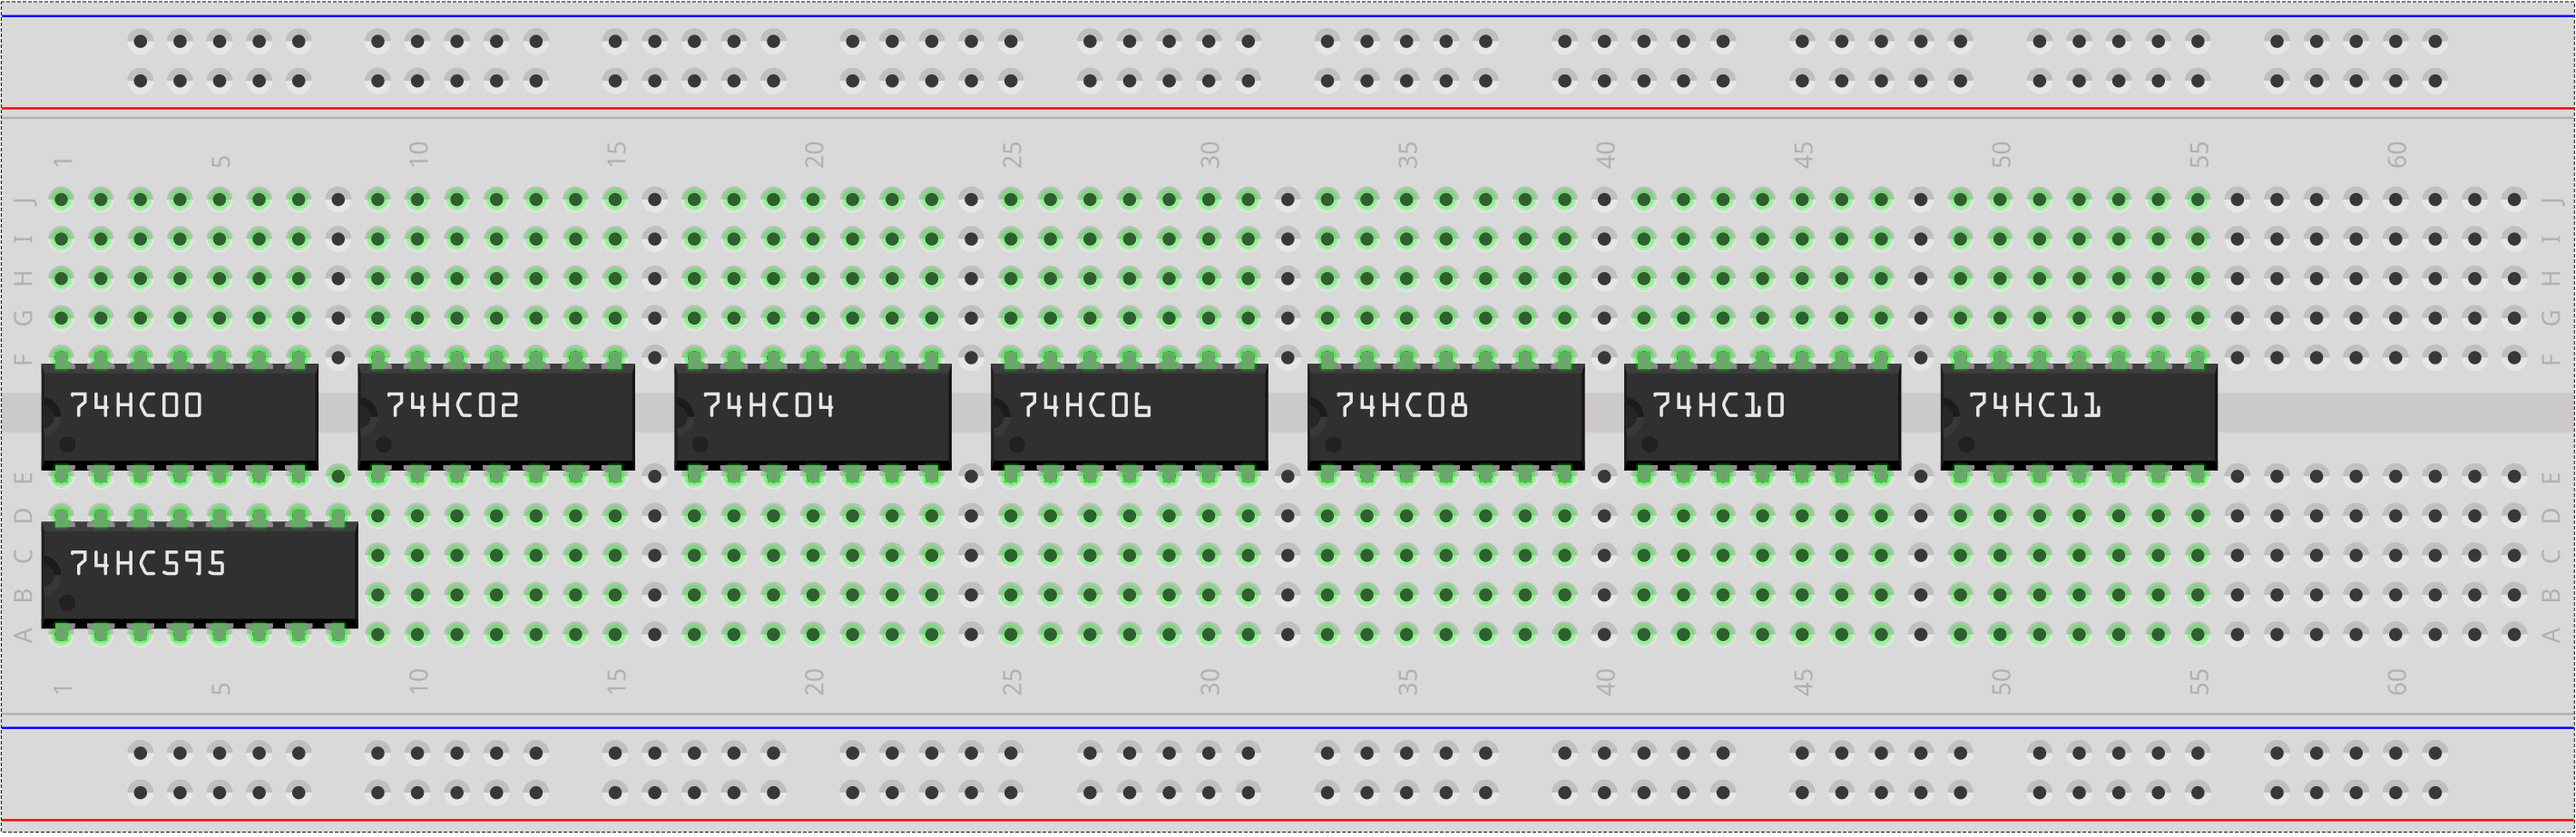
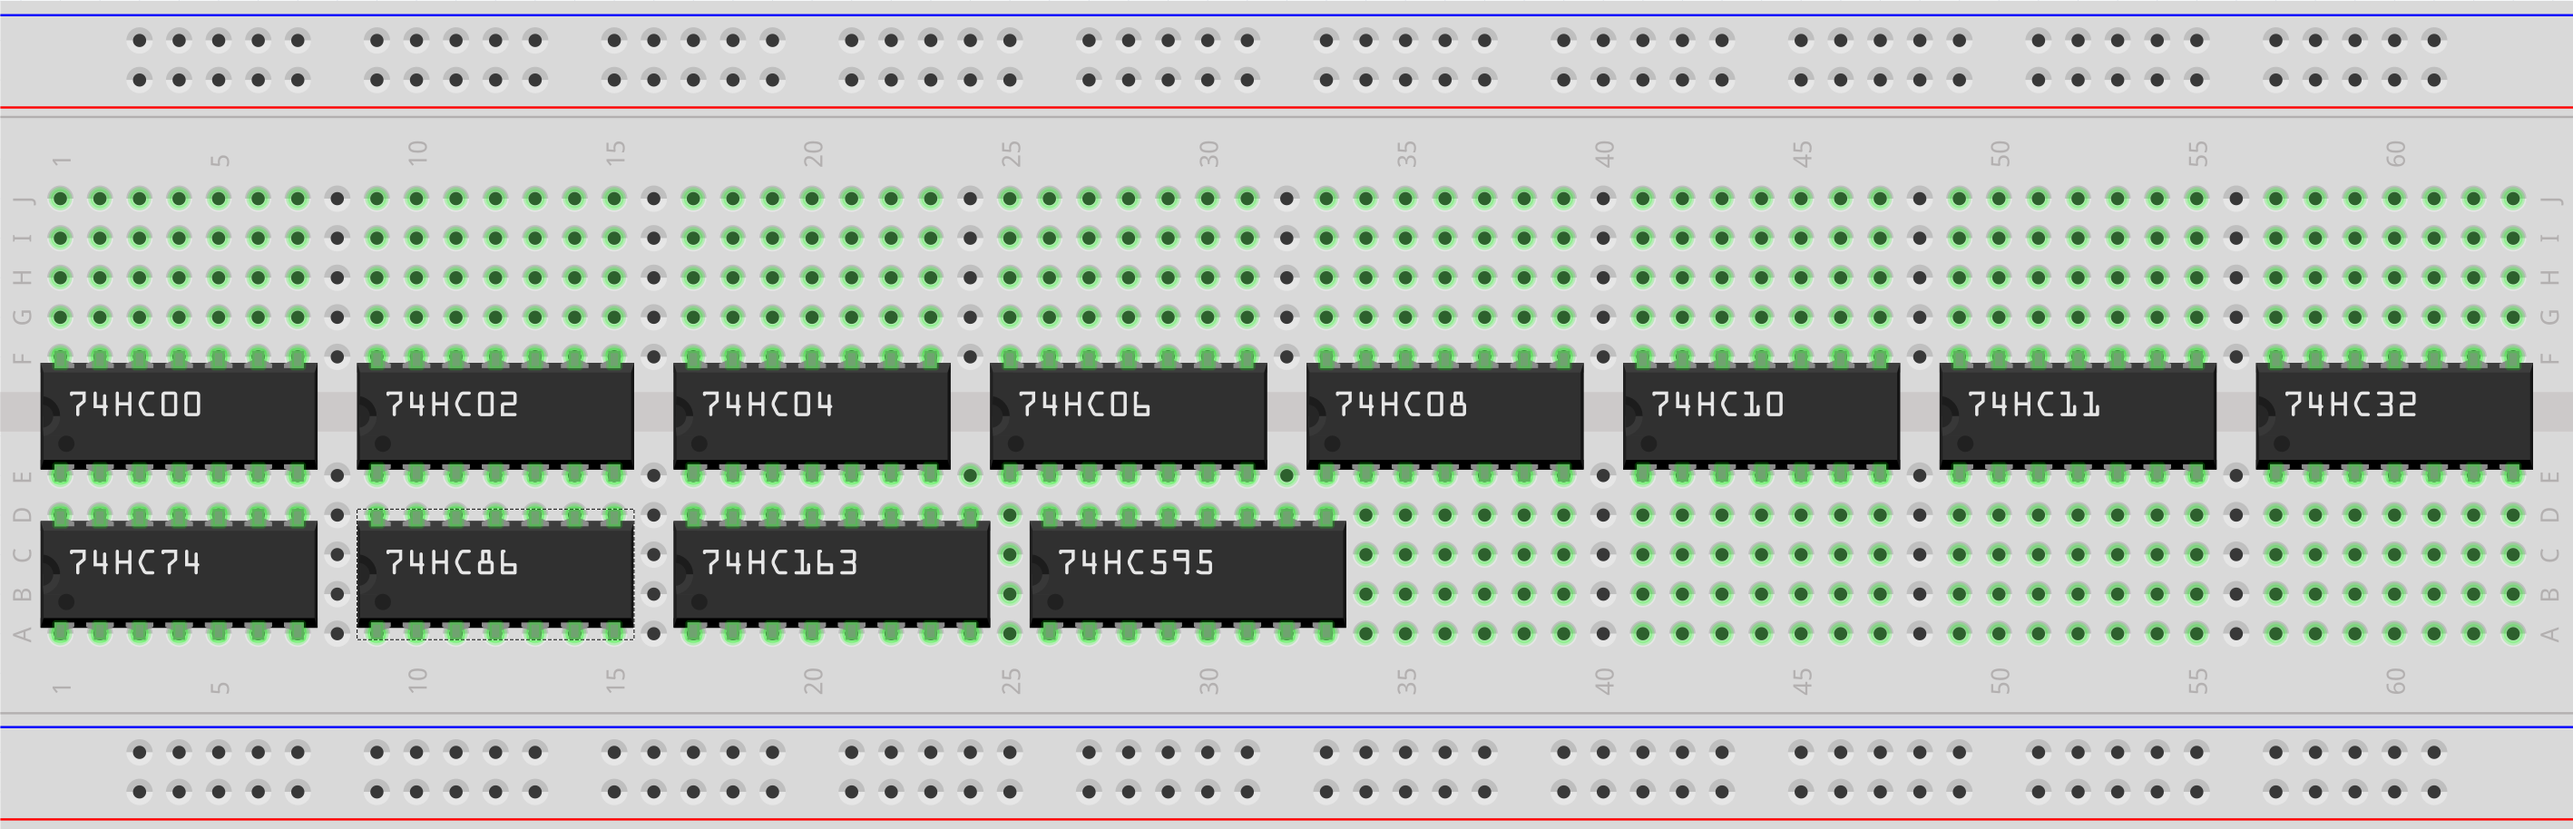
- Added 74HC74, 74HC86

Changed region(s): [[0.0, 0.0, 1.0, 1.0]]

diff --git a/README.md b/README.md
@@ -12,6 +12,10 @@ Current support:
   - 74HC08 - Quad 2-input AND gate
   - 74HC10 - Triple 3-input NAND gate
   - 74HC11 - Triple 3-input AND gate
+  - 74HC32 - Quad 2-input OR gate
+  - 74HC74 - Dual D-type flip-flop with set andreset; positive-edge trigger
+  - 74HC86 - Quad 2-input EXCLUSIVE-OR gate
+  - 74HC163 - Presettable synchronous 4-bitbinary counter; synchronous reset
   - 74HC595 - 8-bit serial-in, serial or parallel-outshift register with output latches;3-state
 
   
